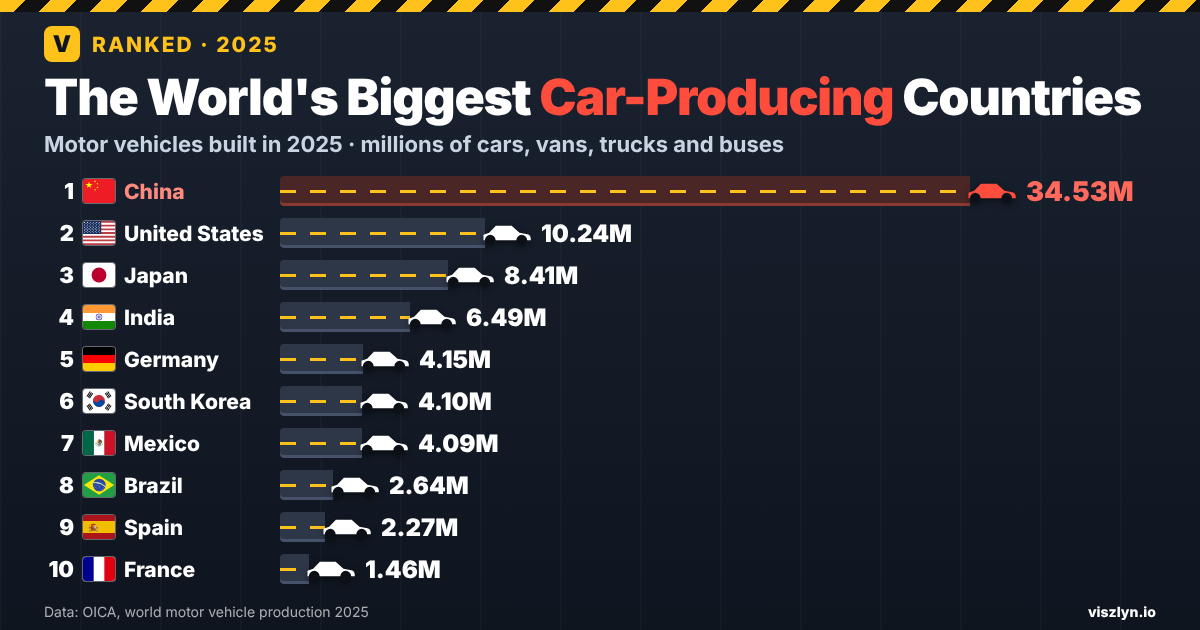
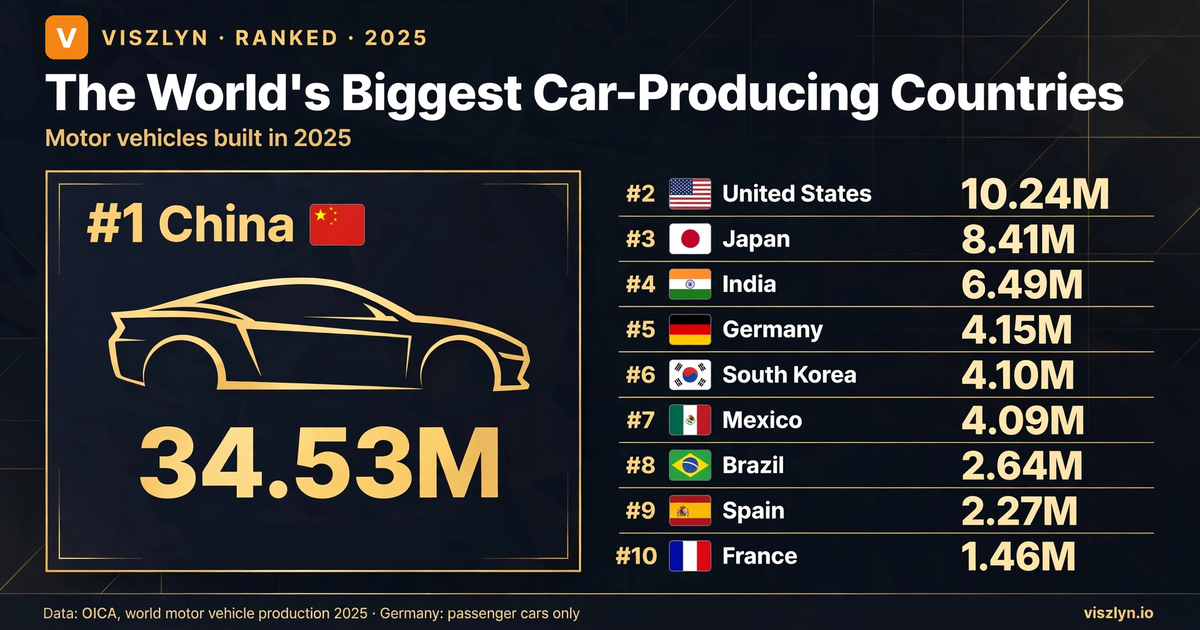
Car producers: use the supplied gold hero design
Claude-Session: https://claude.ai/code/session_01Lx7Mnbsr2j6Zre36XCS9Kp

diff --git a/src/data/rankings/biggest-car-producing-countries-2026.ts b/src/data/rankings/biggest-car-producing-countries-2026.ts
@@ -24,7 +24,7 @@ export const biggestCarProducingCountries2026: RankingArticle = {
   heroImage: {
     src: "/heroes/biggest-car-producing-countries-2026.png",
     ogSrc: "/heroes/biggest-car-producing-countries-2026-og.png",
-    alt: "Rows of car icons on a factory conveyor, one icon per million vehicles built in 2025: China 34.53 million, United States 10.24 million, Japan 8.41 million, India 6.49 million, Germany 4.15 million, South Korea 4.10 million, Mexico 4.09 million, Brazil 2.64 million, Spain 2.27 million and France 1.46 million. Source: OICA.",
+    alt: "Gold car outline with China ranked first at 34.53 million motor vehicles built in 2025, followed by the United States 10.24 million, Japan 8.41 million, India 6.49 million, Germany 4.15 million (passenger cars only), South Korea 4.10 million, Mexico 4.09 million, Brazil 2.64 million, Spain 2.27 million and France 1.46 million. Source: OICA.",
   },
 
   quickAnswer:
